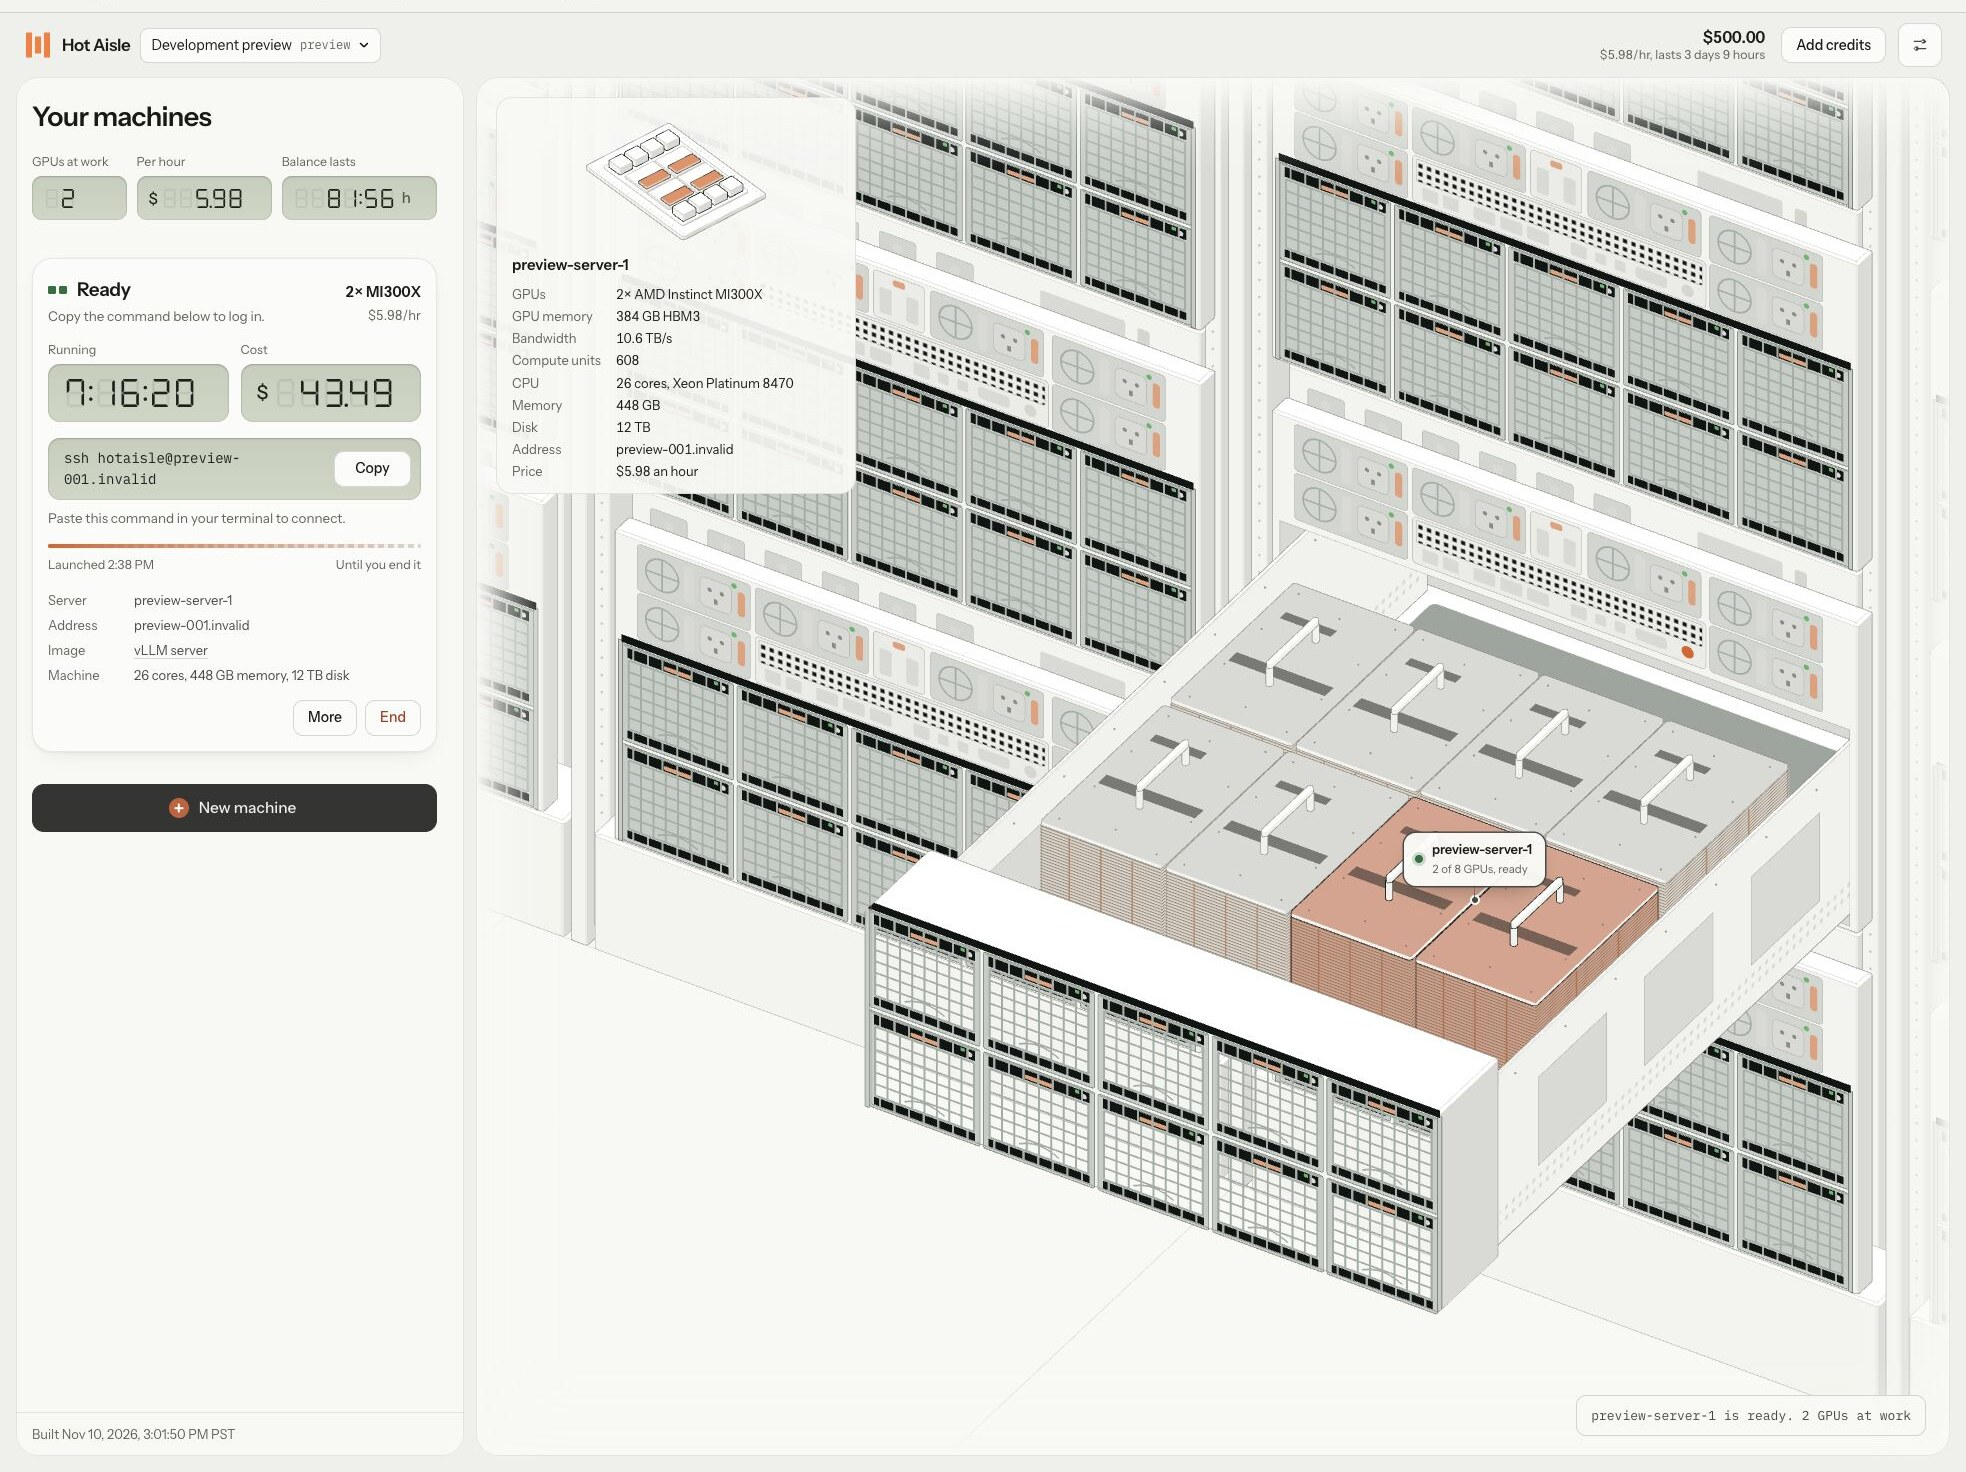
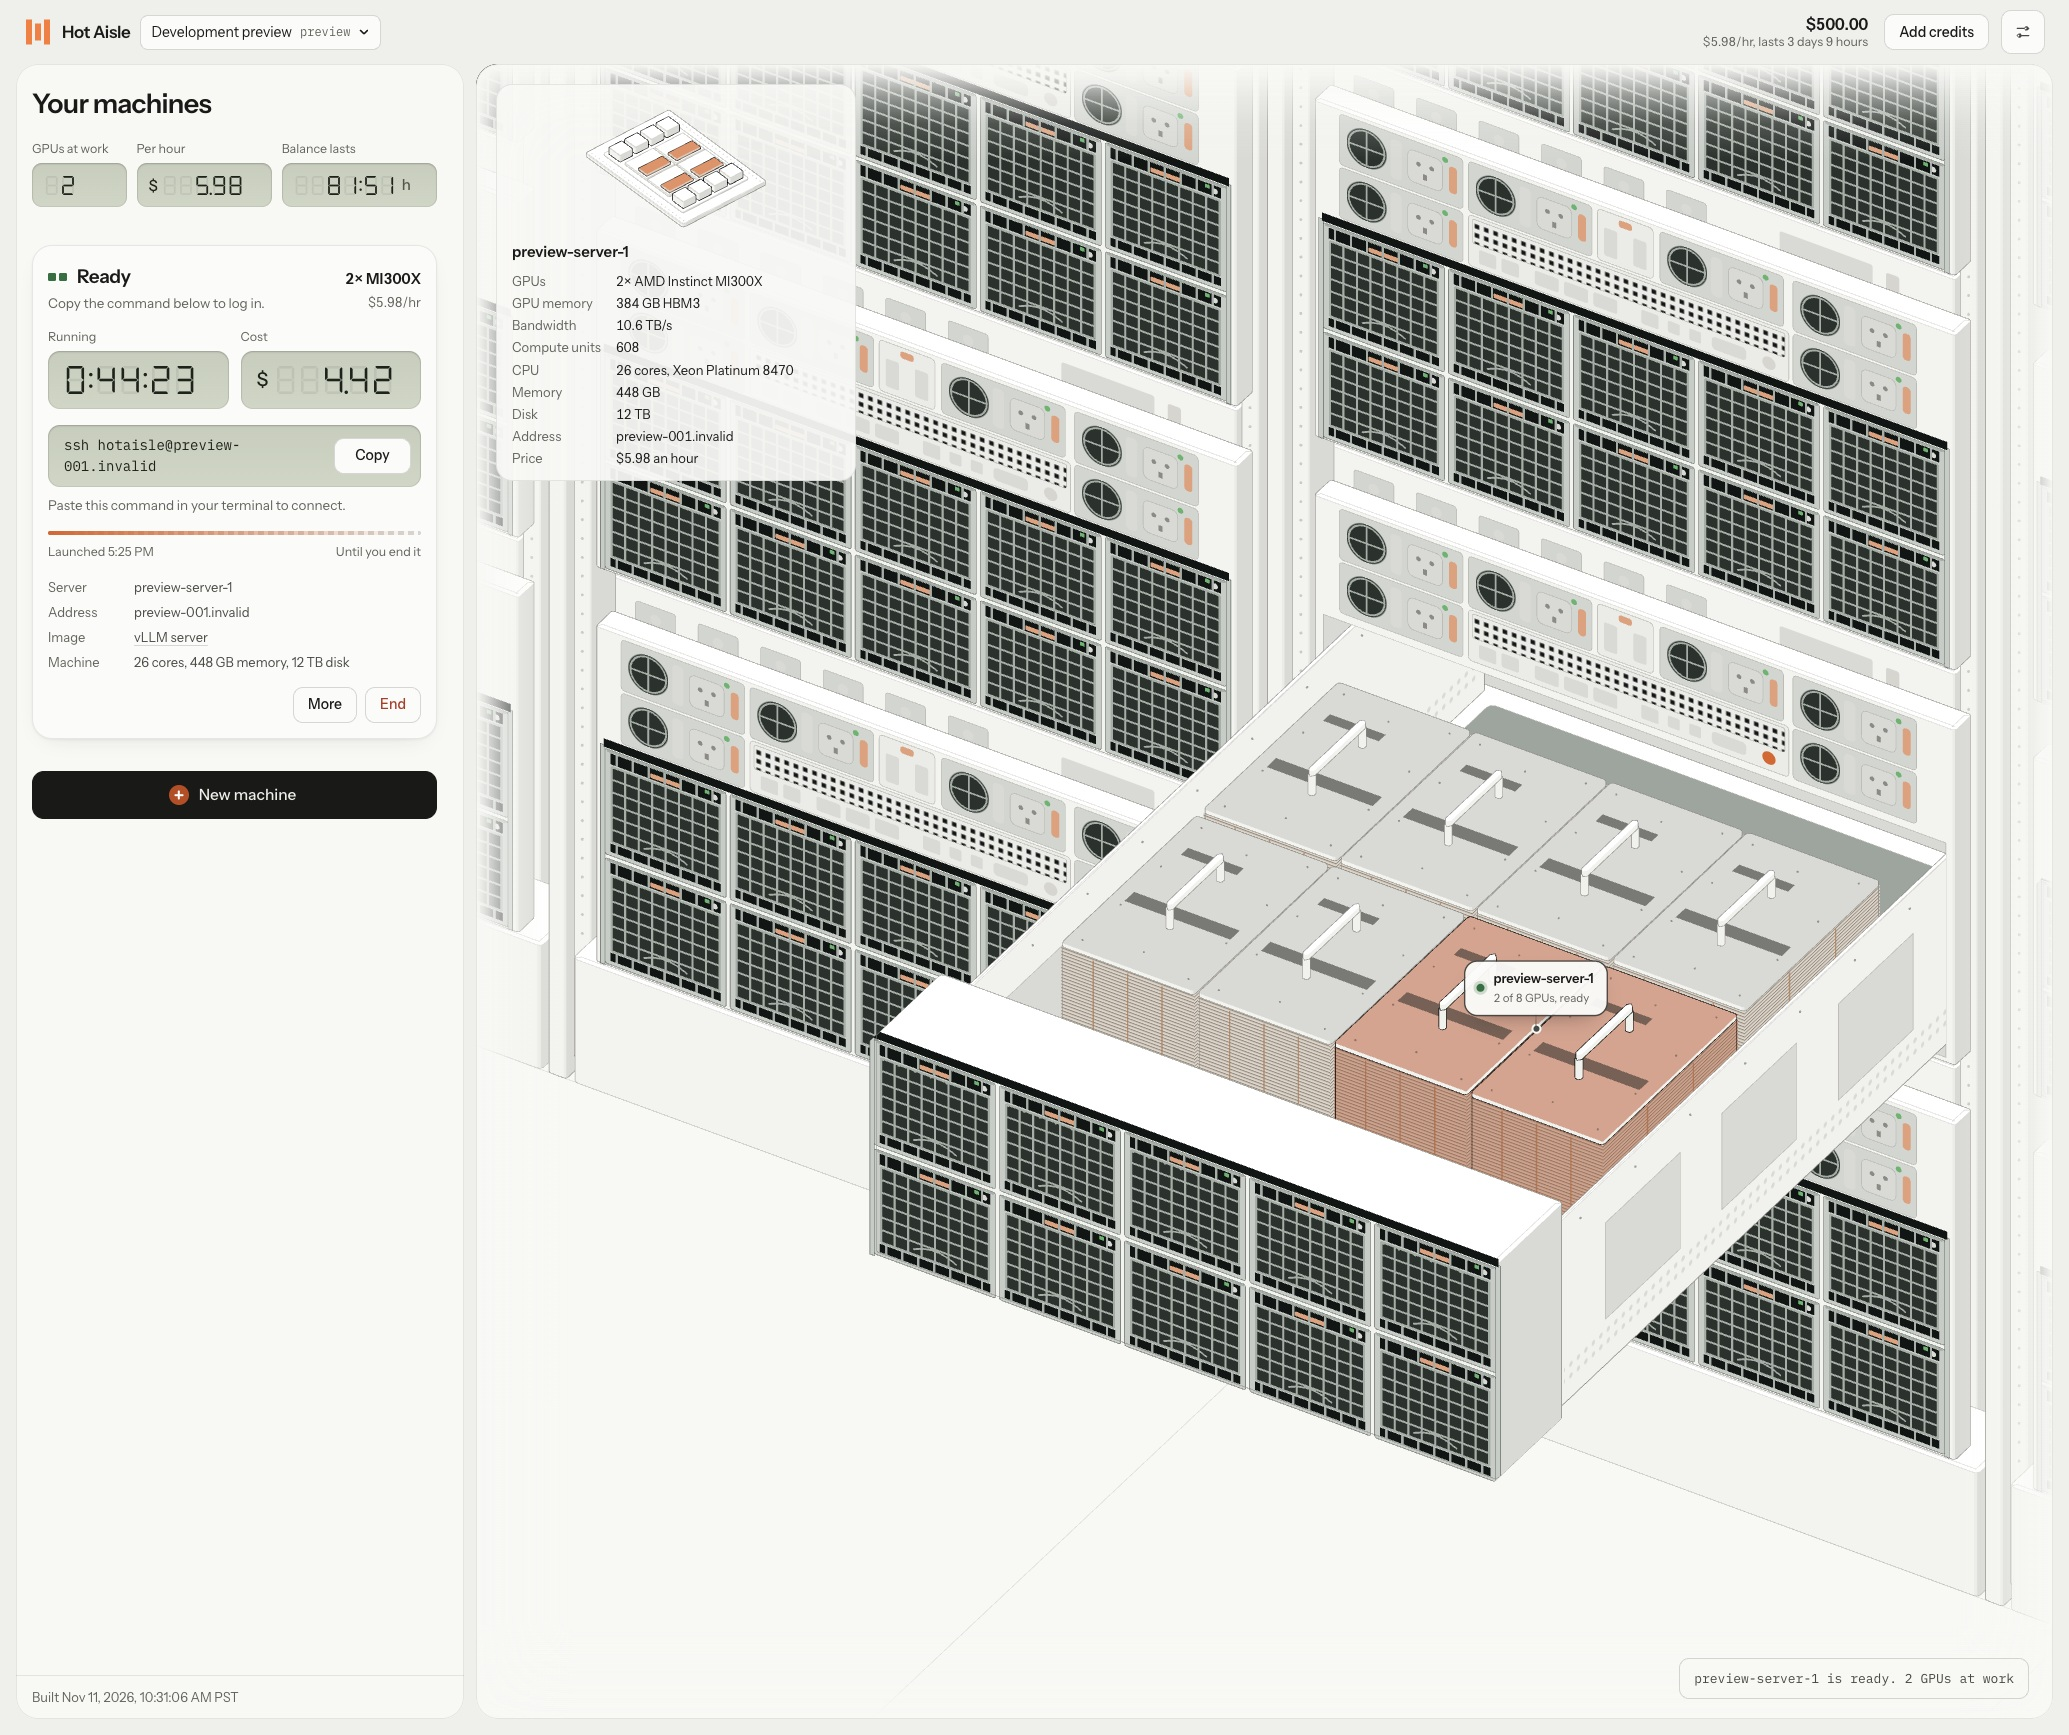
docs(console): add matching light and dark dashboard screenshots (#6)

diff --git a/README.md b/README.md
@@ -18,7 +18,12 @@ These views use simulated machines from the local development preview.
 
 ### Your machines
 
-![Your machines dashboard with a running MI300X machine and server illustration](docs/machine.jpg)
+<picture>
+  <source media="(prefers-color-scheme: dark)" srcset="docs/machine-dark.jpg">
+  <img alt="Your machines dashboard with a running MI300X machine and server illustration" src="docs/machine.jpg">
+</picture>
+
+The dashboard screenshot follows your light or dark theme. Both versions show simulated machines.
 
 ### New machine
 
